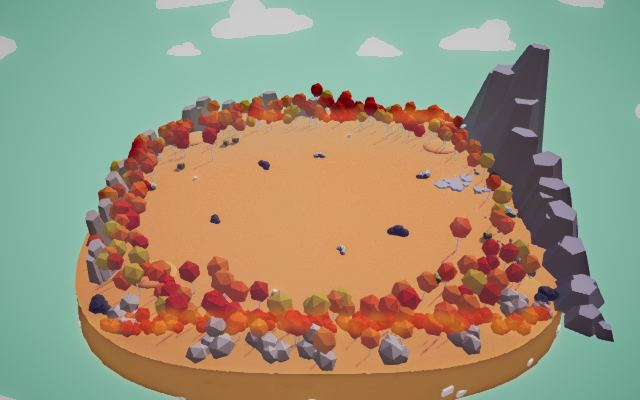
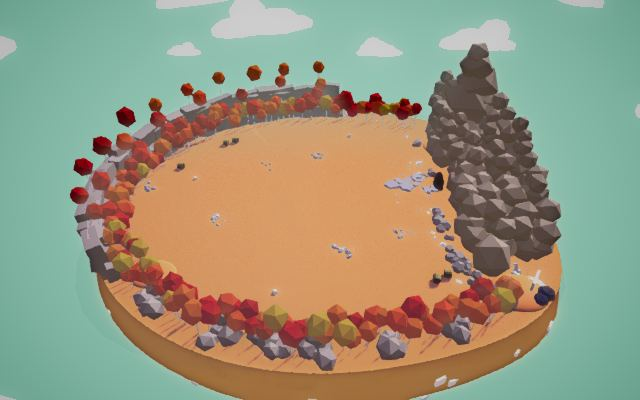
loop(565): maps_1+maps_2 8/8 gaps approved

diff --git a/loop/STATE.md b/loop/STATE.md
@@ -1,5 +1,5 @@
 # Loop state (v10: maps then stages; two batch audits merged; up to 9 structural/rebuild gaps + 1 eligible polish; fresh CONFIRM before done)
-Iteration: 564   Batch: maps_1+maps_2   Consecutive empty: 0   Done: 2/99   Parked: 0
+Iteration: 565   Batch: maps_1+maps_2   Consecutive empty: 0   Done: 3/99   Parked: 0
 Batches, in order: maps_1, maps_2, maps_3, maps_4, stages_introduction, stages_adventure, stages_challenge, stages_dynasty, stages_renaissance, stages_pirate, stages_spooky, stages_simulation, stages_wild_west, stages_legacy, stages_fantasy_good, stages_fantasy_evil
 <!-- Item file template, loop/items/<id>.md (map: map.<id>; stage: <campaign>.<level>):
 # <id>
@@ -16,7 +16,7 @@ c ...
 Marks below: one per criterion a b c (+ pass, - fail, ? unscored); map a look, b layout, c play; stage a army, b formation, c battle. -->
 
 ## Scoreboard (a b c as + pass, - fail, ? unscored; status q queued, o open, D done, p parked)
-maps_1: tribal_1 +++ D | tribal_2 -++ o | tribal_sandbox +-+ o | farmer_1 +++ D | farmer_2 -++ o (a plateau) | farmer_snow --+ o
+maps_1: tribal_1 +++ D | tribal_2 +++ D | tribal_sandbox +-+ o | farmer_1 +++ D | farmer_2 -++ o (a plateau) | farmer_snow -++ o
 maps_2: medieval_1 --+ o | medieval_2 --+ o | ancient_1 --+ o | ancient_2 --+ o | ancient_sandbox --+ o | viking --+ o | viking_sandbox --+ o
 maps_3: dynasty ??? q | renaissance ??? q | pirate ??? q | spooky_1 ??? q | spooky_2 ??? q | wild_west ??? q | legacy ??? q
 maps_4: fantasy_good ??? q | fantasy_evil ??? q | simulation ??? q | bridge ??? q | hill ??? q | corridor ??? q | defend_the_castle ??? q | high_ground ??? q | low_ground ??? q
@@ -33,35 +33,32 @@ stages_legacy: siege ??? q | a_tank ??? q | the_war ??? q | thor_s_battle ??? q
 stages_fantasy_good: colossal_spike ??? q | royal_archers ??? q | clash_of_warriors ??? q | chaotic_cavalry ??? q | vicious_terror ??? q | fortified_formation ??? q
 stages_fantasy_evil: encircling_tribe ??? q | raze_the_homestead ??? q | farmer_uprising_evil ??? q | storm_the_fortress ??? q | blasted_skirmish ??? q | dismantle_the_spears ??? q
 
-## Focus (iter 564: maps_1+maps_2, 1 [R] + 8 [S]; BASE 5f4bd642)
-- [S] map.viking_sandbox.b blocker 4 base junk removed (617a5f5a) APPROVE, struck monolith clause of 4, and 2
-- [S] map.viking_sandbox.a blocker 1 snow floor + teal ice patches + cracks (78fc3163) APPROVE, struck 1
-- [S] map.ancient_sandbox.b blocker 5 base junk removed (d4443b87) APPROVE, struck monolith clause of 5
-- [S] map.ancient_sandbox.a blocker 5 blue sea, shallows, foam (288ca462) APPROVE, struck 5
-- [S] map.farmer_snow.a blocker 6 base slab + totem removed (79991c9b) APPROVE, struck 6
-- [S] map.farmer_snow.b blocker 1 pine grove on the houses' bank (140782a1) APPROVE, struck 1
-- [S] map.tribal_2.a blocker 1 massif as heaped faceted boulders, warm rock (6d29e353) APPROVE, struck 1, 2
-- [S] map.tribal_2.a blocker 4 pale stone clusters + bone sticks (140833c3) APPROVE, struck 4
-- [R] map.farmer_2.a blockers 1-3 grove groups, hedge, bush heaps, wheat (8992d360) APPROVE, critic struck 1-3 (PASS)
-- Skipped: tribal_sandbox.b1 (1.4x scale needs the 120 m camera radius clamp lifted for that map's top/island shots: evidence commit first)
-- CONFIRM: farmer_2 failed a (4th) -> stays open, plateau, CONFIRM 564 list replaces a
-- 9/9, 12 struck
+## Focus (iter 565: maps_1+maps_2, 1 [R] + 7 [S]; BASE 93c67eaf)
+- [S] map.viking_sandbox.b blocker 4 base field dressing + pits removed (6278850c) APPROVE, struck 4
+- [S] map.ancient_sandbox.b blocker 5 base field dressing + pits removed (b149e156) APPROVE, struck 5
+- [S] map.tribal_2.a blocker 3 two-tier ledge wall, ledge birches (e503d93f) APPROVE, struck 3 (PASS; CONFIRM passed -> D)
+- [S] map.farmer_snow.b blocker 2 mill onto the +x bank, wheel in the ice (ca008f0d) APPROVE, struck 2 (b PASS)
+- [S] map.viking.a blocker 1 own builder: ice lake + cracks, snow banks (4d8db327) APPROVE, struck a1, b1
+- [S] map.medieval_2.b blocker 1 own builder: front pond, paths, lagoons/plank out (61b2ec07+4e086afe) APPROVE, struck 1, 2, 3
+- [S] map.ancient_2.a blocker 2 own builder: temple complex (b364ac2a) APPROVE, struck a2, b2
+- [R] map.farmer_2.a blockers 1-4 rim masses, pale cottage, straw wheat, alley (b84ba5a1) APPROVE, struck 1, 2, 4 (CONFIRM passed a; critic kept 3)
+- Skipped: tribal_sandbox.b1 (evidence commit first), medieval_1, ancient_1 (starve at 567: take them first in 566)
+- 8/8, 14 struck
 
 ## Last verdicts (critic header lines verbatim)
-GAP: [S] map.viking_sandbox (617a5f5a) VERDICT: APPROVE CRITERION: map.viking_sandbox.b FAIL
-GAP: [S] map.viking_sandbox (78fc3163) VERDICT: APPROVE CRITERION: map.viking_sandbox.a FAIL
-GAP: [S] map.ancient_sandbox (d4443b87) VERDICT: APPROVE CRITERION: map.ancient_sandbox.b FAIL
-GAP: [S] map.ancient_sandbox (288ca462) VERDICT: APPROVE CRITERION: map.ancient_sandbox.a FAIL
-GAP: [S] map.farmer_snow (79991c9b) VERDICT: APPROVE CRITERION: map.farmer_snow.a FAIL
-GAP: [S] map.farmer_snow (140782a1) VERDICT: APPROVE CRITERION: map.farmer_snow.b FAIL
-GAP: [S] map.tribal_2 (6d29e353) VERDICT: APPROVE CRITERION: map.tribal_2.a FAIL
-GAP: [S] map.tribal_2 (140833c3) VERDICT: APPROVE CRITERION: map.tribal_2.a FAIL
-GAP: [R] map.farmer_2 (8992d360) VERDICT: APPROVE CRITERION: map.farmer_2.a PASS
+GAP: [S] map.viking_sandbox (6278850c) VERDICT: APPROVE CRITERION: map.viking_sandbox.b FAIL
+GAP: [S] map.ancient_sandbox (b149e156) VERDICT: APPROVE CRITERION: map.ancient_sandbox.b FAIL
+GAP: [S] map.tribal_2 (e503d93f) VERDICT: APPROVE CRITERION: map.tribal_2.a PASS
+GAP: [S] map.farmer_snow (ca008f0d) VERDICT: APPROVE CRITERION: map.farmer_snow.b PASS
+GAP: [S] map.viking (4d8db327) VERDICT: APPROVE CRITERION: map.viking.a FAIL
+GAP: [S] map.medieval_2 (61b2ec07 + 4e086afe) VERDICT: APPROVE CRITERION: map.medieval_2.b FAIL
+GAP: [S] map.ancient_2 (b364ac2a) VERDICT: APPROVE CRITERION: map.ancient_2.a FAIL
+GAP: [R] map.farmer_2 (b84ba5a1) VERDICT: APPROVE CRITERION: map.farmer_2.a FAIL plateau
 REGRESSIONS: none
 
 ## Notes for next iteration (max 5 lines)
-- [R] slot: farmer_2.a (plateau, CONFIRM failed 560/561/563/564); spec from the CONFIRM lists in its item file (rim discs, pale cottage, straw-gold wheat, green alley strip).
-- tribal_sandbox.b1 needs an evidence commit first: cameraController upperRadiusLimit 120 clamps the top (135) and island (200) poses; lift it for that map's shots only, or every map's shots change.
-- maps_2 untouched builders: medieval_1, medieval_2, ancient_1, ancient_2, viking (base campaign.challenge/adventure/introduction: never edit bases). Starving from iter 567 if still untouched.
-- tribal_2 has one a blocker left (back-left rock ledge): striking it sends the item to CONFIRM.
+- Starving at 567: medieval_1 (a, b) and ancient_1 (a, b) have no attempt since their 562 audit: give them own builders first in 566 (base campaign.introduction / campaign.challenge; never edit bases).
+- [R] slot: farmer_2.a, one blocker left (wheat colour): lower the self-light (<= 0.15) at a warm gold-orange; CONFIRM 565 already passed a.
+- tribal_sandbox.b1 needs an evidence commit first: cameraController upperRadiusLimit 120 clamps the top (135) and island (200) poses; lift it in capture-world.mjs for that map's shots only.
+- The challenge-base junk clear (wallStone, boulder, hayBale, hill, stump, pits) is ranked for viking.b4 and ancient_2.b5: copy viking_sandbox's clearFieldDressing.
 - Critic 562 aside still open: stage_fantasy_evil.raze_the_homestead_field.png pale grey rectangle behind the island; check at the maps_1 checkpoint.

diff --git a/loop/items/map.ancient_2.md b/loop/items/map.ancient_2.md
@@ -1,13 +1,16 @@
 # map.ancient_2
 Status: open   Audited: 562 (AUDIT x2)   Done: -
 ## Verdicts
-a FAIL (0 since 562): 1. Ground in map_ancient_2_ground is orange autumn grass — TABS: bright green lawn with pink and purple flower specks (ref: reference/maps/wiki/ancient_2.png) 2. Temple complex absent in map_ancient_2_island — TABS: tiered beige Greek temples with pediments and statues (ref: reference/maps/greek_ancient_2.png) 3. Ring in map_ancient_2_top is autumn trees — TABS: low beige stone ring wall (ref: reference/maps/wiki/ancient_2.png) 4. Island underside in map_ancient_2_island is a navy slab with stalactites — TABS: round brown earth drum set with grey stones (ref: reference/maps/greek_ancient_2.png) 5. Small beige gate pavilions with cypresses at the wall absent in map_ancient_2_top — TABS: pavilions at left, front and right (ref: reference/maps/wiki/ancient_2.png)
-b FAIL (0 since 562): 1. Island outline in map_ancient_2_top is a rounded rectangle — TABS: circular disc (ref: reference/maps/wiki/ancient_2.png) 2. Temple complex filling the back third absent in map_ancient_2_top — TABS: complex across the back edge (ref: reference/maps/wiki/ancient_2.png) 3. Crossing paths absent in map_ancient_2_top — TABS: beige X-shaped paths across the field (ref: reference/maps/wiki/ancient_2.png) 4. Front gate pavilion on the centre line absent in map_ancient_2_island — TABS: columned gate at the front wall (ref: reference/maps/greek_ancient_2.png) 5. Black slabs and monolith in mid-field in map_ancient_2_battle — TABS: open green field (ref: reference/stages/challenge.zeus.png)
-c PASS (562 judge)
+a FAIL (565: struck 2): 1. Ground in map_ancient_2_ground is orange autumn grass — TABS: bright green lawn with pink and purple flower specks (ref: reference/maps/wiki/ancient_2.png) 3. Ring in map_ancient_2_top is autumn trees — TABS: low beige stone ring wall (ref: reference/maps/wiki/ancient_2.png) 4. Island underside in map_ancient_2_island is a navy slab with stalactites — TABS: round brown earth drum set with grey stones (ref: reference/maps/greek_ancient_2.png) 5. Small beige gate pavilions with cypresses at the wall absent in map_ancient_2_top — TABS: pavilions at left, front and right (ref: reference/maps/wiki/ancient_2.png)
+b FAIL (565: struck 2): 1. Island outline in map_ancient_2_top is a rounded rectangle — TABS: circular disc (ref: reference/maps/wiki/ancient_2.png) 3. Crossing paths absent in map_ancient_2_top — TABS: beige X-shaped paths across the field (ref: reference/maps/wiki/ancient_2.png) 4. Front gate pavilion on the centre line absent in map_ancient_2_island — TABS: columned gate at the front wall (ref: reference/maps/greek_ancient_2.png) 5. Black slabs and monolith in mid-field in map_ancient_2_battle — TABS: open green field (ref: reference/stages/challenge.zeus.png)
+c PASS (565 judge)
 ## Ranked gaps
-1. [S] a — blocker 2: own builder tabs/ancient_2.ts (base campaign.challenge, shared: never edit it): round green disc in a beige ring wall, tiered temple complex across the back third, earth-drum underside — ref: greek_ancient_2.png — ours: map_ancient_2_island.png
-2. [S] b — blocker 3: an X of pale stone paths with one arm to the temple gate — ref: wiki/ancient_2.png
+1. [S] a — blocker 1: bright green lawn (ground/grass/blades recoloured, autumn tufts hidden) with pink and purple flower specks
+2. [S] b — blocker 5: base field dressing removed with colliders and hazards (Challenge Bluffs_box/_cyl/_totem_top, wallStone, boulder, hayBale, hill, stump, pits), as viking_sandbox 565.1
+3. [S] a — blocker 3: low beige stone ring wall round the rim in place of the autumn trees
 ## Attempts (iter | gap | criterion | verdict)
+565 | [S] own builder; three moss-topped terraces z 24/30/36, pedimented temples, central stair, crowning temple, two statues (b364ac2a) | a2 | APPROVE struck a2, b2
 ## Rejected (last 4)
 ## Notes (max 3 lines)
-- Stages on it: challenge.zeus, renaissance.renaissance_vs_ancient_2.
+- Stages on it: challenge.zeus, renaissance.renaissance_vs_ancient_2 (team 1 at x 29..37, |z| <= 18; the complex starts at z 24).
+- Critic 565: the complex is a regular grid of identical small temples on flat terraces (TABS a dense irregular mass); minor.

diff --git a/loop/items/map.farmer_2.md b/loop/items/map.farmer_2.md
@@ -1,18 +1,19 @@
 # map.farmer_2
-Status: open   Audited: 555 (AUDIT x2), 560 (CONFIRM: passed b; failed a), 561 (CONFIRM: failed a), 563 (CONFIRM: failed a), 564 (CONFIRM: failed a)   Done: -
+Status: open   Audited: 555 (AUDIT x2), 560 (CONFIRM: passed b; failed a), 561 (CONFIRM: failed a), 563 (CONFIRM: failed a), 564 (CONFIRM: failed a), 565 (CONFIRM: passed a; critic failed a)   Done: -
 ## Verdicts
-a FAIL plateau (0 since 564, CONFIRM list; critic passed a, fourth CONFIRM fail): 1. flat olive disc mounds at the island rim in map_farmer_2_island (right one juts past the edge over the void) and map_farmer_2_top — TABS: the rim is closed by chunky faceted bush masses and boulders that sit on the field inside the edge, with nothing hanging out over the void (ref: reference/maps/wiki/farmer_2.png; reference/maps/farm_2.png) 2. farmhouse in map_farmer_2_top and map_farmer_2_island reads as a dark chocolate-brown cabin with a dark brown roof — TABS: a pale weathered-tan plank cottage with a steep light A-frame roof and a lit yellow window (ref: reference/maps/wiki/farmer_2.png) 3. wheat field in map_farmer_2_top and map_farmer_2_ground is a dull brown-ochre, speckled dark from above — TABS: the wheat is a bright pale straw-gold, the lightest and warmest surface on the map (ref: reference/maps/wiki/farmer_2.png; reference/stages/adventure.the_tiniest_attack.png) 4. saturated emerald-green strip beside the left alley in map_farmer_2_top and map_farmer_2_island — TABS: the whole field is a single yellow-olive grass tone (ref: reference/maps/wiki/farmer_2.png)
+a FAIL plateau (565: struck 1, 2, 4): 3. wheat field in map_farmer_2_top and map_farmer_2_ground is a dull brown-ochre, speckled dark from above — TABS: the wheat is a bright pale straw-gold, the lightest and warmest surface on the map (ref: reference/maps/wiki/farmer_2.png; reference/stages/adventure.the_tiniest_attack.png)
 b PASS (560: struck 4; CONFIRM 560)
-c PASS (564 judge)
+c PASS (565 judge)
 ## Ranked gaps
-1. [R] a — from every CONFIRM list (560-564): base "hill" discs at the rim hidden or pulled inside (nothing past the edge); cottage re-skinned pale tan planks with a light steep roof and a lit window; wheat lighter straw-gold (between 563 (0.95,0.8,0.32) and 564 (0.9,0.66,0.2), e.g. (1,0.8,0.3) self-lit 0.35, check palette.png); alley strip recoloured to the meadow khaki; keep the 564 grove groups, hedge and heaps
+1. [R] a — blocker 3: wheatField re-spec from the wiki's sampled wheat, warm gold-orange about (0.93, 0.68, 0.3) with self-light <= 0.15 (fog and glow bleached 565's (1, 0.8, 0.3) x0.35 to cream from above, khaki at ground), the straw floor one step darker than the stalks
 ## Attempts (iter | gap | criterion | verdict)
 555-559 | a: wheat, sheaves, olive meadow + furrows; b: walls, path, fence, alley | a, b | 11 APPROVE
 560-561 | [S] farmhouse + pines, round island, stone walls, earth bowl, olive crowns + lumps | a, b | 5 APPROVE struck a1, a2, a3, a5, b4
 563 | [R] khaki meadow, pale wheat, oak wall -> stacked-crown olives + bush clumps (115b231d) | a1-4 | APPROVE struck 1, 2, 4
 564 | [R] tree groups of 2-3 with 4-block crowns over bush masses, hedge, 6 cottage-high heaps, warmer taller wheat (8992d360) | a1-3 | APPROVE (critic PASS a); CONFIRM failed a
+565 | [R] rim discs -> bush+boulder masses, pale tan cottage, straw-gold wheat on a straw floor, alley strip gone (b84ba5a1) | a1-4 | APPROVE struck 1, 2, 4; CONFIRM passed a
 ## Rejected (last 4)
 ## Notes (max 3 lines)
 - Team 1 armies stand in x 2..41, z -26..18 (inside the wheat). Ring: farmer2OliveCrowns/Dark, OliveTrunks (oliveGrove, GROVE_SITES, BUSH_HEAPS).
-- Critic 564: wheat mustard-ochre, bush masses at tree feet small next to TABS's.
-- CONFIRM failed a 4x: plateau holds, next pick one [R] from the lists above.
+- Wheat colour history (LEDGER): 562 orange, 563 (0.95,0.8,0.32) too pale, 564 (0.9,0.66,0.2) ochre, 565 (1,0.8,0.3) x0.35 cream. Lower the self-light, not the hue.
+- 565: CONFIRM passed a, the gap critic kept blocker 3: one blocker left; striking it sends a to CONFIRM.

diff --git a/loop/items/map.ancient_sandbox.md b/loop/items/map.ancient_sandbox.md
@@ -2,19 +2,19 @@
 Status: open   Audited: 562 (AUDIT x2)   Done: -
 ## Verdicts
 a FAIL (564: struck 5): 1. Ground in map_ancient_sandbox_ground is orange autumn grass — TABS: green meadow with brown dirt paths (ref: reference/maps/wiki/ancient_sandbox.png) 2. Edge dressing in map_ancient_sandbox_top is autumn trees — TABS: cypresses and white Greek houses with blue-tile walls (ref: reference/maps/wiki/ancient_sandbox.png) 3. Spiral mountain absent in map_ancient_sandbox_island — TABS: tall spiral rock tower at the back (ref: reference/maps/greek_ancient_sandbox.png) 6. Ruins absent in map_ancient_sandbox_top — TABS: fallen columns and ruined arches (ref: reference/maps/wiki/ancient_sandbox.png)
-b FAIL (564: struck 5 monolith clause): 1. Island outline in map_ancient_sandbox_top is a small rounded rectangle — TABS: very large irregular island with cliff terraces (ref: reference/maps/greek_ancient_sandbox.png) 2. Raised terraces with temples at the back edge absent in map_ancient_sandbox_top — TABS: brown-cliffed hills at the far edge (ref: reference/maps/wiki/ancient_sandbox.png) 3. Spiral mountain on the north centreline absent in map_ancient_sandbox_top — TABS: mountain on the centreline (ref: card Overview) 4. Offshore islets absent in map_ancient_sandbox_island — TABS: small islands in the distance (ref: card Overview) 5. Black slabs in mid-field in map_ancient_sandbox_battle — TABS: wide-open field (ref: reference/maps/wiki/ancient_sandbox.png)
-c PASS (564 judge)
+b FAIL (565: struck 5): 1. Island outline in map_ancient_sandbox_top is a small rounded rectangle — TABS: very large irregular island with cliff terraces (ref: reference/maps/greek_ancient_sandbox.png) 2. Raised terraces with temples at the back edge absent in map_ancient_sandbox_top — TABS: brown-cliffed hills at the far edge (ref: reference/maps/wiki/ancient_sandbox.png) 3. Spiral mountain on the north centreline absent in map_ancient_sandbox_top — TABS: mountain on the centreline (ref: card Overview) 4. Offshore islets absent in map_ancient_sandbox_island — TABS: small islands in the distance (ref: card Overview)
+c PASS (565 judge)
 ## Ranked gaps
 1. [S] a — blocker 1: green meadow ground with brown dirt paths (grass/groundMat/blades recoloured, fieldTufts_* hidden, path ribbons)
-2. [S] a — blocker 3: tall spiral rock tower on the back centre line
-3. [S] b — blocker 5: the dark block row the 564 regex missed (battle shot 570-760,400-425): find its mesh names, hide with colliders, and the navy field boulders
-4. [S] a — blocker 2: cypresses and white blue-trimmed houses in place of the autumn ring
+2. [S] b — blocker 2: terrace set piece along the back rim: two or three brown cliff steps with green tops, white Greek houses with blue-tile walls and a small temple
+3. [S] a — blocker 3: tall spiral rock tower on the back centre line
 ## Attempts (iter | gap | criterion | verdict)
 563 | [S] own builder; navy underside -> ring of faceted terracotta cliff facets + floor (a295aa5a) | a4 | APPROVE struck 4
 564 | [S] base junk (Challenge Bluffs_box/_cyl/_totem_top) removed with colliders (d4443b87) | b5 | APPROVE struck monolith clause
 564 | [S] blue sea disc to the horizon at y -11, shallows + foam rings (288ca462) | a5 | APPROVE struck 5
+565 | [S] base field dressing (wallStone, boulder, hayBale, hill, stump, both pits) removed with colliders and hazards (b149e156) | b5 | APPROVE struck 5
 ## Rejected (last 4)
 ## Notes (max 3 lines)
 - No stages fought on it. Base is campaign.challenge (shared): dress it in tabs/ancient_sandbox.ts only.
-- Critic 563: cliff is a smooth evenly lit salmon band with thin seams (TABS darker red-brown, deep buttresses, ledges, clefts).
-- Critic 564: beige sky jars over the blue sea (TABS pale blue sky).
+- Critic 565: dark boulder rows remain at the front and back rim among the trees (outside the 0.8 rim clear).
+- Critic 564: beige sky jars over the blue sea (TABS pale blue sky). Critic 563: cliff a smooth salmon band (TABS darker, deep buttresses).

diff --git a/loop/items/map.viking.md b/loop/items/map.viking.md
@@ -1,13 +1,16 @@
 # map.viking
 Status: open   Audited: 562 (AUDIT x2)   Done: -
 ## Verdicts
-a FAIL (0 since 562): 1. Ground in map_viking_ground is orange autumn grass — TABS: blue ice with white crack lines (ref: reference/maps/wiki/viking.png) 2. Trees in map_viking_ground are autumn round crowns — TABS: snow-laden pines, white with teal bands (ref: reference/maps/winter_viking.png) 3. Sky in map_viking_ground is warm beige haze — TABS: pale cyan fog with falling snow (ref: reference/maps/wiki/viking.png) 4. Frozen ship absent in map_viking_island — TABS: ship locked in the ice on the left (ref: card Overview) 5. Island underside in map_viking_island is a navy slab with stalactites — TABS: icy white-blue rounded underside (ref: reference/maps/winter_viking.png) 6. Frozen waterfall absent in map_viking_island — TABS: waterfall at the top of the map (ref: card Overview)
-b FAIL (0 since 562): 1. Frozen lake absent in map_viking_top — TABS: cracked ice lake fills the centre as the battlefield (ref: reference/maps/wiki/viking.png) 2. Snowbanks with pine forest on the sides absent in map_viking_top — TABS: raised snowy shore with pines (ref: reference/stages/introduction.ice_archers_only_almost.png) 3. Ship position on the left absent in map_viking_top — TABS: ship on the left side (ref: card Overview) 4. Black slabs and monolith in mid-field in map_viking_battle — TABS: open ice (ref: reference/stages/spooky.breakout.png)
-c PASS (562 judge)
+a FAIL (565: struck 1): 2. Trees in map_viking_ground are autumn round crowns — TABS: snow-laden pines, white with teal bands (ref: reference/maps/winter_viking.png) 3. Sky in map_viking_ground is warm beige haze — TABS: pale cyan fog with falling snow (ref: reference/maps/wiki/viking.png) 4. Frozen ship absent in map_viking_island — TABS: ship locked in the ice on the left (ref: card Overview) 5. Island underside in map_viking_island is a navy slab with stalactites — TABS: icy white-blue rounded underside (ref: reference/maps/winter_viking.png) 6. Frozen waterfall absent in map_viking_island — TABS: waterfall at the top of the map (ref: card Overview)
+b FAIL (565: struck 1): 2. Snowbanks with pine forest on the sides absent in map_viking_top — TABS: raised snowy shore with pines (ref: reference/stages/introduction.ice_archers_only_almost.png) 3. Ship position on the left absent in map_viking_top — TABS: ship on the left side (ref: card Overview) 4. Black slabs and monolith in mid-field in map_viking_battle — TABS: open ice (ref: reference/stages/spooky.breakout.png)
+c PASS (565 judge)
 ## Ranked gaps
-1. [S] a — blocker 1: own builder tabs/viking.ts (base campaign.challenge, shared: never edit it): cracked blue ice-lake ground, then snow pines with teal bands, cyan fog and snow, icy underside — ref: winter_viking.png — ours: map_viking_island.png
-2. [S] a — blocker 4: frozen ship hull locked in the ice on the left bank — ref: card Overview
+1. [S] a — blocker 2: base ring trees replaced by snow-laden low-poly pines (white cones with teal bands) on the snow banks
+2. [S] b — blocker 4: base field dressing off the lake with colliders and hazards (wallStone, boulder, hayBale, hill, stump, Challenge Bluffs_box/_cyl/_totem_top, pits), as viking_sandbox 565.1
+3. [S] a — blocker 3: pale cyan fog and sky with falling snow (save and restore in dispose)
 ## Attempts (iter | gap | criterion | verdict)
+565 | [S] own builder; mid-blue ice lake 44 x 38 with a white crack network, snow banks (4d8db327) | a1 | APPROVE struck a1, b1
 ## Rejected (last 4)
 ## Notes (max 3 lines)
 - Stages on it (8): introduction.ice_archers_only_almost, introduction.longships, challenge.ice_archer_and_friends, challenge.big_brawl, dynasty.viking_army, spooky.breakout, fantasy_good.clash_of_warriors, fantasy_evil.dismantle_the_spears.
+- Critic 565: ice saturated mid-blue, cracks even thick polygon borders (TABS paler teal, thinner branching cracks); minor.

diff --git a/loop/items/map.farmer_snow.md b/loop/items/map.farmer_snow.md
@@ -2,20 +2,20 @@
 Status: open   Audited: 555 (AUDIT x2), 563 (CONFIRM: passed none; failed a, b)   Done: -
 ## Verdicts
 a FAIL (564: struck 6): 1. A closed ring of pale fog-washed broadleaf trees round the whole rim in map_farmer_snow_top.png — TABS: open snow edge with only a few tall snow-capped trees at the corners (ref: reference/maps/wiki/farmer_snow.png) 2. Watermill shown as two brown gabled barns with string lights in map_farmer_snow_island.png — TABS: tall dark-blue timber mill towers with a water wheel and a balcony on one bank (ref: reference/maps/wiki/farmer_snow.png) 3. Large snow-capped boulder in the front field missing in map_farmer_snow_top.png — TABS: a big faceted rock with snow cap on the field's front-right (ref: reference/maps/wiki/farmer_snow.png) 4. Snow-covered crop furrows by the bridge missing in map_farmer_snow_top.png — TABS: rows of snowy furrow ridges beside the bridge on the field side (ref: reference/maps/wiki/farmer_snow.png) 5. Snowy wooden carts and wagons missing in map_farmer_snow_ground.png — TABS: two snow-laden carts and log piles on the near field (ref: reference/maps/wiki/farmer_snow.png)
-b FAIL (564: struck 1): 2. Watermill straddling the river at the island's front edge in map_farmer_snow_top.png — TABS: the mill stands on one bank at the river's end, its wheel in the water (ref: reference/maps/wiki/farmer_snow.png)
-c PASS (564 judge)
+b PASS (565: struck 2; critic only, CONFIRM it when the item would be done)
+c PASS (565 judge)
 ## Ranked gaps
-1. [S] b — blocker 2: mill moved onto one bank at the river's front end, its wheel in the ice (snowBuildings)
-2. [S] a — blocker 1: ring trees hidden all round the rim but three or four tall snowy trees at the corners (the round snow edge left open)
-3. [S] a — blocker 2: mill as tall dark-blue timber towers with a water wheel and a balcony
+1. [S] a — blocker 1: ring trees hidden all round the rim but three or four tall snowy trees at the corners (the round snow edge left open)
+2. [S] a — blocker 2: mill halves rebuilt as tall dark-blue timber towers with snowy plank roofs, a balcony, the wheel kept (MILL_HALVES on the +x bank)
+3. [S] a — blocker 3: big faceted snow-capped boulder on the front-right field
 ## Attempts (iter | gap | criterion | verdict)
 555-559 | river, snow cover, bridge, night sky, grove, navy bowl, stones | a, b | 6 APPROVE, struck a1, a2, a6, b1, b2, b4, b6
 561-562 | [S] houses + mill, round outline, bulb strings, dark mill (cb41584c, e9d95cfa, d7b02859, 23817396+452f35d3) | a, b | 4 APPROVE struck b5, b3, a3, a4
 563 | [S] snow hills at their radius (e6641d5a); dense pine grove (5ac61480) | b6, a5 | 2 APPROVE struck b6, a5
-564 | [S] base slab + totem (Introduction Grounds_box/_cyl/_totem_top) removed (79991c9b) | a6 | APPROVE struck 6
-564 | [S] pine grove moved to the houses' bank, x -47..-27, z 8..40 (140782a1) | b1 | APPROVE struck 1
+564 | [S] base slab + totem removed (79991c9b); pine grove to the houses' bank (140782a1) | a6, b1 | 2 APPROVE struck a6, b1
+565 | [S] mill off the river onto the +x bank, halves in a row along the ice, wheel in the ice (ca008f0d) | b2 | APPROVE struck 2 (b PASS)
 ## Rejected (last 4)
 ## Notes (max 3 lines)
-- No stages. Builder: ice course, bridge, houses (-26,36),(-11,39), mill z -41, lights, pineGrove x -47..-27 z 8..40.
-- Critic 564: a big black sphere sits on the left field (top 390-440,630-680; island 360-420,385-425), source unknown: find it by name and hide.
+- No stages. Builder: ice course, bridge, houses (-26,36),(-11,39), mill halves at x ~8 z -41 / -28.2 with the wheel at z -34.6, lights, pineGrove.
+- Critic 564: a big black sphere sits on the left field (top 390-440,630-680), source unknown: find it by name (probe) and hide.
 - Critic 563: pale ghost block at the left edge of map_farmer_snow_ground (base tower/ruin).

diff --git a/loop/items/map.medieval_2.md b/loop/items/map.medieval_2.md
@@ -2,12 +2,15 @@
 Status: open   Audited: 562 (AUDIT x2)   Done: -
 ## Verdicts
 a FAIL (0 since 562): 1. Castle in map_medieval_2_top is a small grey keep with blue cone spires — TABS: huge vine-covered crenellated wall with blue banners and an arched wooden gate along the back edge (ref: reference/maps/wiki/medieval_2.png) 2. Ring trees in map_medieval_2_ground are pale white-green lollipop trees — TABS: dark-green lumpy oaks with twisted trunks, clustered at the castle and the corners (ref: reference/maps/wiki/medieval_2.png) 3. Island underside in map_medieval_2_island is a navy slab with black stalactites — TABS: rounded grey-brown earthen underside (ref: reference/maps/meadow_medieval_2.png) 4. Ruined red-roof houses absent in map_medieval_2_top — TABS: collapsed red-roof cottages and a fallen tower at the front-right corner (ref: reference/maps/wiki/medieval_2.png) 5. Grass in map_medieval_2_ground is dark olive-brown — TABS: bright yellow-green meadow (ref: reference/maps/wiki/medieval_2.png)
-b FAIL (0 since 562): 1. Two oval pools in the field centre in map_medieval_2_top — TABS: one pond at the front of the island, with an open field centre (ref: reference/maps/meadow_medieval_2.png) 2. Dirt path network absent in map_medieval_2_top — TABS: pinkish dirt paths branch across the field, the main one running to the castle gate (ref: reference/maps/wiki/medieval_2.png) 3. Brown plank between the pools in map_medieval_2_battle — TABS: no such obstacle (ref: reference/maps/wiki/medieval_2.png) 4. Team zones in map_medieval_2_top are four pads around the pools — TABS: two halves facing across open meadow (ref: reference/stages/challenge.twin_lords.png)
-c PASS (562 judge)
+b FAIL (565: struck 1, 2, 3): 4. Team zones in map_medieval_2_top are four pads around the pools — TABS: two halves facing across open meadow (ref: reference/stages/challenge.twin_lords.png)
+c PASS (565 judge)
 ## Ranked gaps
-1. [S] b — blocker 1: own builder tabs/medieval_2.ts (base campaign.adventure; never edit the base, regression scenarios use it): drop the twin pools and plank, one pond at the front lip, pink dirt paths to the castle gate — ref: wiki/medieval_2.png
-2. [S] a — blocker 1: vine-covered crenellated castle wall with blue banners and an arched gate across the back edge — ref: wiki/medieval_2.png — ours: map_medieval_2_top.png
+1. [S] a — blocker 1: vine-covered crenellated castle wall with blue banners and an arched gate across the back edge (gate at (-10, 25), where the main path ends) — ref: wiki/medieval_2.png — ours: map_medieval_2_top.png
+2. [S] b — blocker 4: one placementZone per team (merge each side's two pads into one half, clear of the pond z <= -30); keep stage spots (x 28..37, z -26..-6) inside
+3. [S] a — blocker 5: bright yellow-green meadow (grass/groundMat/blades recoloured)
 ## Attempts (iter | gap | criterion | verdict)
+565 | [S] own builder; lagoons + plank out, one front pond (-6, -39) with 3 water circles, pink path network to the gate; pond ground cleared (61b2ec07+4e086afe) | b1 | APPROVE struck 1, 2, 3
 ## Rejected (last 4)
 ## Notes (max 3 lines)
-- Stages on it: challenge.knights_and_priests, challenge.twin_lords, fantasy_evil.storm_the_fortress. Base is campaign.adventure (regression scenarios).
+- Stages on it: challenge.knights_and_priests, challenge.twin_lords, fantasy_evil.storm_the_fortress. Base is campaign.adventure (regression scenarios): never edit it.
+- The front haze crown band (hazeTreeline, both bands) is hidden by the pond clear.

diff --git a/loop/items/map.viking_sandbox.md b/loop/items/map.viking_sandbox.md
@@ -2,19 +2,19 @@
 Status: open   Audited: 562 (AUDIT x2)   Done: -
 ## Verdicts
 a FAIL (564: struck 1): 3. Great gate absent in map_viking_sandbox_top — TABS: carved ice gate hung with chains (ref: reference/maps/wiki/viking_sandbox.png) 4. Sky in map_viking_sandbox_ground is warm beige haze — TABS: cyan mist with snow (ref: reference/maps/wiki/viking_sandbox.png) 5. Island in map_viking_sandbox_island is a navy slab with stalactites — TABS: white ice chunk with crystal shards (ref: reference/maps/winter_viking_sandbox.png)
-b FAIL (564: struck 2, 4 monolith clause): 1. Outline in map_viking_sandbox_top is a rounded rectangle — TABS: circular arena bowl (ref: reference/maps/winter_viking_sandbox.png) 3. Gate on the left side absent in map_viking_sandbox_top — TABS: gate at left (ref: card Overview) 4. Black slabs in mid-field in map_viking_sandbox_battle — TABS: flat open ice (ref: reference/stages/pirate.arrows_and_arrow.png)
-c PASS (564 judge)
+b FAIL (565: struck 4): 1. Outline in map_viking_sandbox_top is a rounded rectangle — TABS: circular arena bowl (ref: reference/maps/winter_viking_sandbox.png) 3. Gate on the left side absent in map_viking_sandbox_top — TABS: gate at left (ref: card Overview)
+c PASS (565 judge)
 ## Ranked gaps
-1. [S] b — blocker 4: the dark block row the 564 regex missed (battle shot 500-760,400-420; arrows_and_arrow army shot): find its mesh names in the built set (rubble rows / wallStone?), hide with colliders, and the navy field boulders
-2. [S] a — blocker 4: cold sky: cyan-white clear colour and fog, drifting snow (save and restore in dispose)
+1. [S] a — blocker 4: cold sky: cyan-white clear colour and fog, drifting snow (save and restore in dispose)
+2. [S] b — blocker 3: gap in the ice wall on the left (-x) with a carved ice gate: two tall pale-cyan pillars, a lintel, hanging chain links (iceWall)
 3. [S] a — blocker 5: white ice-chunk underside with crystal shards in place of islandUnder/Shelf/Cliff
-4. [S] a — blocker 3: carved ice gate hung with chains set into the left wall (180 deg)
 ## Attempts (iter | gap | criterion | verdict)
 563 | [S] own builder; tree ring -> closed three-tier ice-cliff wall, placement inside |x| <= 44 (632026ad) | a2 | APPROVE struck 2
 564 | [S] base junk (Challenge Bluffs_box/_cyl/_totem_top) removed with colliders (617a5f5a) | b4 | APPROVE struck monolith clause, b2 struck
 564 | [S] snow floor, lobed teal ice patches, white cracks, tufts/blades hidden (78fc3163) | a1 | APPROVE struck 1
+565 | [S] base field dressing (wallStone, boulder, hayBale, hill, stump, both pits) removed with colliders and hazards (6278850c) | b4 | APPROVE struck 4
 ## Rejected (last 4)
 ## Notes (max 3 lines)
 - Stage on it: pirate.arrows_and_arrow (x 29..36, |z| <= 10; keep its spots on open ice). Base zones reach x +-61: placementZones clipped to +-44.
-- Critic 564: b1 looks met by the 563 wall (round bowl in top shot): judge it at the next b review. Ice patches lighter cyan than TABS teal; grey rectangles (pit overlays) show through the snow.
+- Critic 564: b1 looks met by the 563 wall (round bowl in top shot): judge it at the next b review. Ice patches lighter cyan than TABS teal.
 - Base is campaign.challenge (shared): dress it in tabs/viking_sandbox.ts only.

diff --git a/loop/LEDGER.md b/loop/LEDGER.md
@@ -45,6 +45,14 @@ Rows: `file:identifier | value | last iter | verdict | earlier values`. P: no ap
 564 | 6d29e353 | map.tribal_2.a | approved
 564 | 140833c3 | map.tribal_2.a | approved
 564 | 8992d360 [R] | map.farmer_2.a | approved (CONFIRM failed a)
+565 | 6278850c | map.viking_sandbox.b | approved
+565 | b149e156 | map.ancient_sandbox.b | approved
+565 | e503d93f | map.tribal_2.a | approved
+565 | ca008f0d | map.farmer_snow.b | approved
+565 | 4d8db327 | map.viking.a | approved
+565 | 61b2ec07+4e086afe | map.medieval_2.b | approved
+565 | b364ac2a | map.ancient_2.a | approved
+565 | b84ba5a1 [R] | map.farmer_2.a | approved (CONFIRM passed a; critic kept blocker 3)
 
 ## Tuned values
 web/src/map/tabs/farmer_2.ts:wheatField stalk height, step | 0.65-0.8 m, 0.75 m | 564 | approved | 0.5-0.7 m, 0.9 m; 1.0-1.3 m
@@ -62,5 +70,6 @@ web/src/map/tabs/farmer_1.ts:farmer1BankRock colour | (0.6,0.53,0.44) emissive (
 web/src/map/tabs/farmer_2.ts:farmer2UnderEarth colour | (0.5,0.4,0.27) self-lit 1.0 | 561 | approved | (0.44,0.36,0.25) self-lit 0.45
 web/src/map/tabs/farmer_2.ts:farmer2OliveLeaf / Dark | (0.62,0.56,0.19) x0.6, (0.5,0.46,0.15) x0.55 (oliveGrove) | 563 | approved | (0.5,0.47,0.16) x0.6, (0.4,0.39,0.12) x0.55; (0.45,0.42,0.14) x0.25
 web/src/map/tabs/farmer_2.ts:MEADOW | (0.6,0.54,0.18) | 563 | approved | (0.62,0.64,0.2)
-web/src/map/tabs/farmer_2.ts:farmer2Wheat colour | (0.9,0.66,0.2) self-lit 0.3 | 564 | approved (CONFIRM: dull ochre) | (0.95,0.8,0.32) self-lit 0.4 (CONFIRM: too pale); (0.78,0.55,0.16) emissive (0.26,0.17,0.04)
+web/src/map/tabs/farmer_2.ts:farmer2Wheat colour | (1,0.8,0.3) self-lit 0.35 + straw floor (0.92,0.72,0.3) x0.3 | 565 | approved (critic: cream from above, khaki at ground) | (0.9,0.66,0.2) self-lit 0.3 (CONFIRM: dull ochre); (0.95,0.8,0.32) self-lit 0.4 (CONFIRM: too pale); (0.78,0.55,0.16) emissive (0.26,0.17,0.04)
+web/src/map/tabs/farmer_2.ts:farmer2HousePlank / Frame / Roof | (0.88,0.74,0.52) x0.32, (0.56,0.43,0.28) x0.25, (0.74,0.65,0.5) x0.3 | 565 | approved | (0.6,0.44,0.26) x0.18, (0.26,0.15,0.08) x0.15, (0.36,0.23,0.13) x0.15
 web/src/map/tabs/tribal_2.ts:tribal2Mountain colour | (0.6,0.5,0.4) emissive (0.1,0.075,0.05) | 564 | approved | (0.6,0.54,0.52) emissive (0.08,0.06,0.05)

diff --git a/loop/items/map.tribal_2.md b/loop/items/map.tribal_2.md
@@ -1,19 +1,18 @@
 # map.tribal_2
-Status: open   Audited: 555 (AUDIT x2), 563 (CONFIRM: passed b; failed a)   Done: -
+Status: done   Audited: 555 (AUDIT x2), 563 (CONFIRM: passed b; failed a), 565 (CONFIRM: passed a)   Done: 565
 ## Verdicts
-a FAIL (564: struck 1, 2, 4): 3. Stacked rock-ledge wall behind the back-left tree ring missing in map_tribal_2_top.png — TABS: a tiered grey rock cliff runs behind the back trees with trees growing on its top (ref: reference/maps/wiki/tribal_2.png)
+a PASS (565: struck 3; CONFIRM 565)
 b PASS (563: struck 1, 4; CONFIRM 563)
-c PASS (564 judge)
+c PASS (565 judge)
 ## Ranked gaps
-1. [S] a — blocker 3: rimRocks cliff run behind the back-left trees made a tiered ledge wall (stacked angular slabs, few flat tops, warm grey) with birches on its top
 ## Attempts (iter | gap | criterion | verdict)
 555-559 | a: mountain + cave, birch ring, open sky; field walls, earth tiers, slabs/bones | a, b | 6 APPROVE, struck a1, a2, a4, a5, b3, b5
 561-562 | [S] back-left cliffs + front piles, foot rubble, dog shrine, round outline (81facedd, 2a0f2cce, 317a5b85, e08c4278) | a, b | 4 APPROVE struck a3, a6, b2
 563 | [S] massif re-laid over the right third, foot x 31 (3524fafd); rubble on the new foot (0b30e30a) | b1, b4 | 2 APPROVE struck 1, 4
 564 | [S] massif as heaped faceted icosphere boulders to one peak, warm rock (6d29e353) | a1 | APPROVE struck 1, 2
 564 | [S] field boulders -> pale stone clusters + bone sticks (140833c3) | a4 | APPROVE struck 4
+565 | [S] back-left cliff run -> two-tier stepped ledge wall, birches on the ledges (e503d93f) | a3 | APPROVE struck 3 (PASS, CONFIRM passed)
 ## Rejected (last 4)
 ## Notes (max 3 lines)
 - Stages on it: challenge.a_warm_welcome, dynasty.area_of_effect, spooky.cave (team 1 stands at x <= 24.4, |z| <= 9.9; footX keeps 6 m clear).
-- Critic 564: massif boulders near-uniform icospheres like a pile of balls (TABS larger angular planes); navy boulder pair by the shrine; field stones read cool lavender.
-- One blocker left: when it strikes, the item goes to CONFIRM (b already confirmed 563).
+- Done 565. Critic/CONFIRM asides: ledge reads as an even parapet; massif a heap of rounded boulders; crowns deeper crimson than TABS salmon.

diff --git a/loop/LESSONS.md b/loop/LESSONS.md
@@ -42,4 +42,5 @@ Read at step 1; one fact a line, merge near cap. The unit phase's rig and dress 
 - Read stage armies from the stage files, not from Notes: tribal_2's "team 1 at x <= 40" was really x <= 24.4 (563), which freed 15 m for the massif. The campaign.challenge base's placement zones reach x +-61, past the 54 m rim: a builder that walls the field clips placementZones (centre/size) inside it.
 - Upright tessellation-5/6 cylinders with flat tops read as basalt columns / a palisade from the top shot (tribal_2 massif, viking_sandbox wall, 563 critic+CONFIRM): a rock mass wants heaped faceted boulders or tilted slabs with few flat tops.
 - Stage enemy positions are validated against the map's team-1 zone, hazards and obstacles (game.checkStage): a map change can misplace a stage's army (the checkpoint re-judges every stage on a finished map batch).
+- The campaign.challenge base's remaining field dressing is "wallStone" (the dark block row), "boulder" (navy), "hayBale", "hill", "stump" and two pit hazards (campaign_hazard_box_pit overlays); 565 named them with a scratch probe (game.loadMapForCapture("map.<id>") needs the "map." prefix, else it loads sandbox.tribal). Drop the pit hazards with their overlays.
 - Base field junk is "<displayName>_box|_cyl|_totem_top" meshes (mapBuilder addBoxObstacle/addCylinderObstacle/addTotem): hiding those on the campaign.challenge base cleared the ruin and totem but the critic still saw a dark block row in the battle shot (viking/ancient_sandbox 564); list the built set's names near the spot before claiming the slabs gone.
